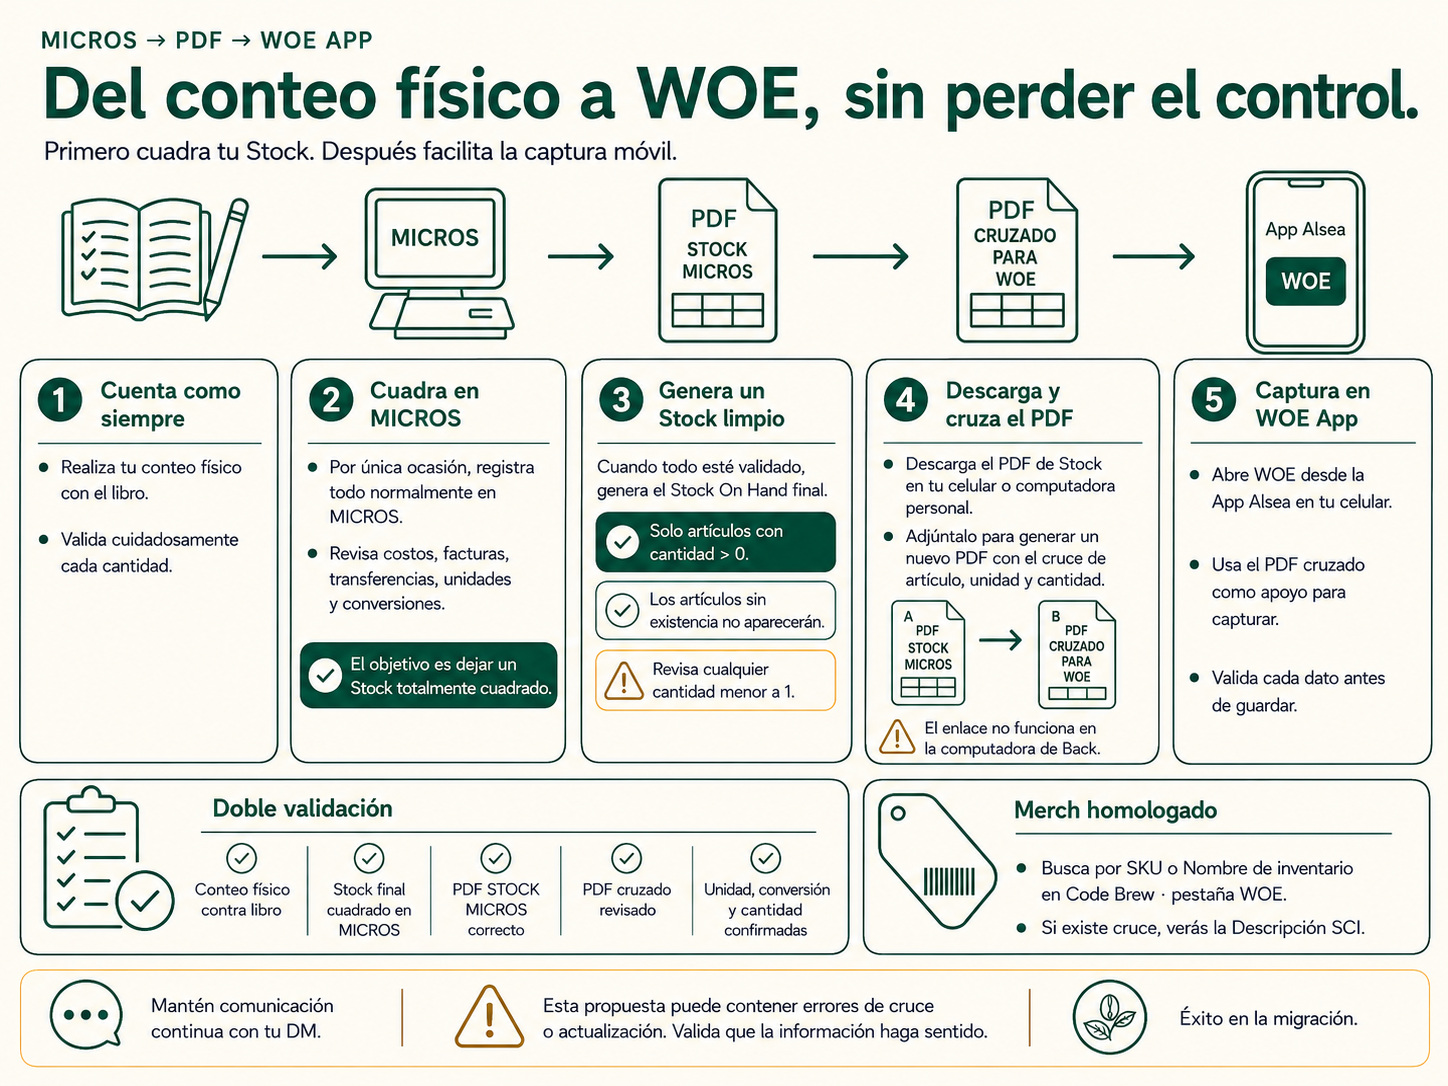
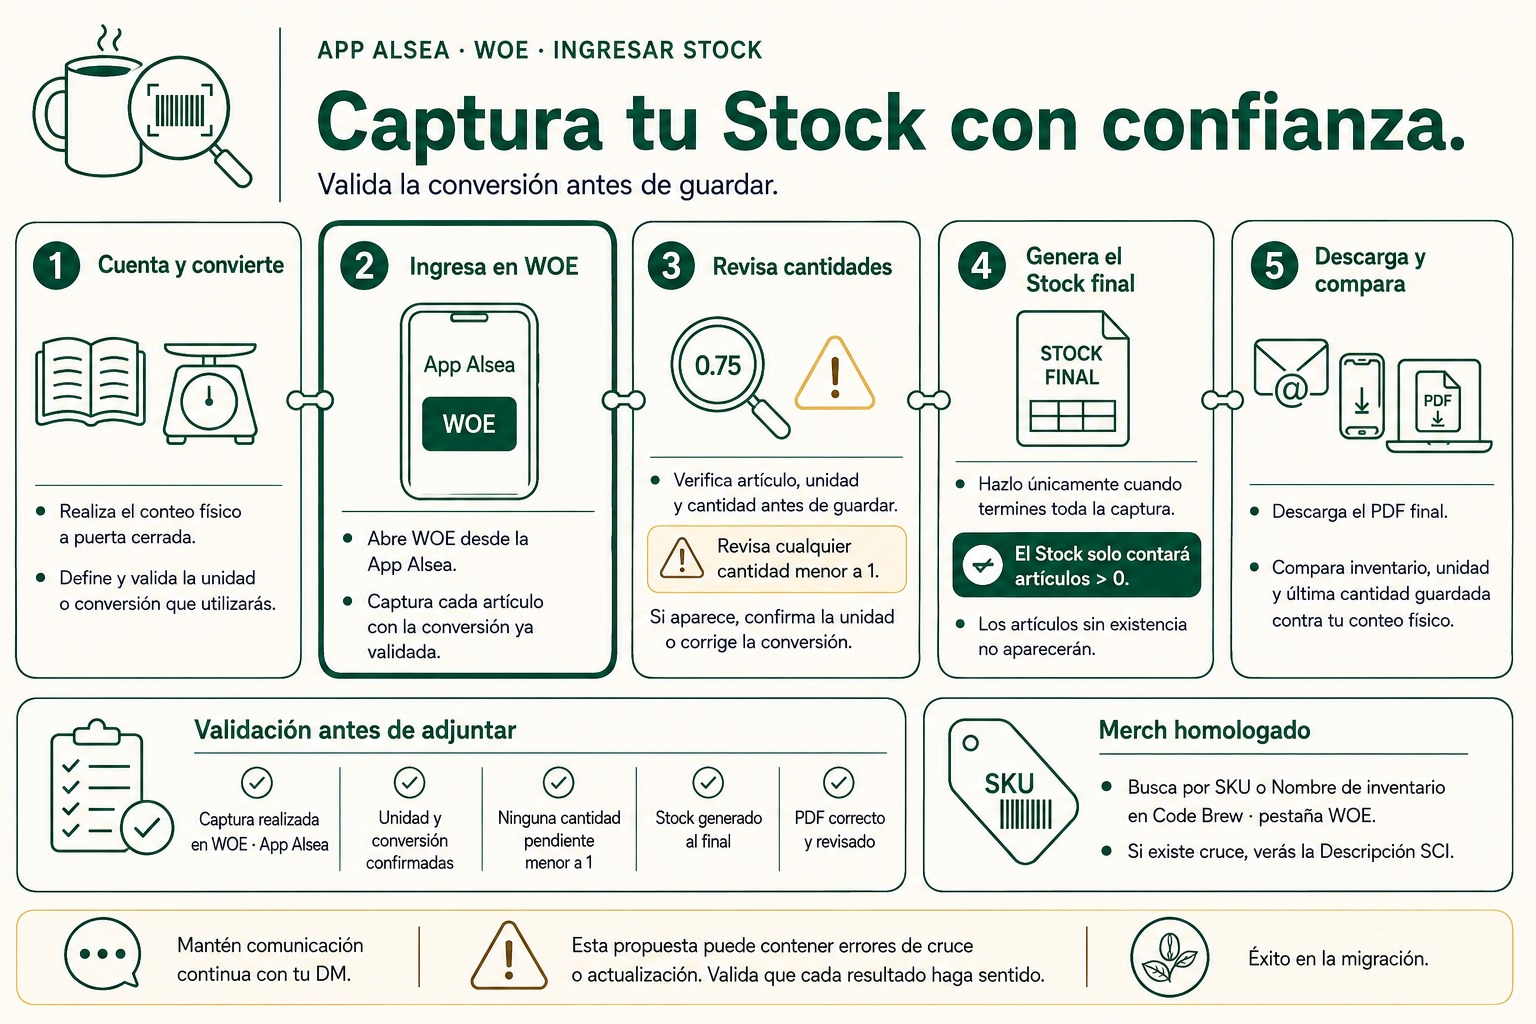
Add files via upload

Changed region(s): [[0.0, 0.0312, 0.9945, 1.0]]

diff --git a/styles.css b/styles.css
@@ -74,7 +74,6 @@ button:focus-visible,.file-action:focus-within,.tab:focus-visible,input:focus-vi
 .woe-kicker{display:block;text-transform:uppercase;letter-spacing:.12em;font-size:12px;font-weight:900;color:#cde8dc;margin-bottom:8px}
 .woe-hero h2{font-size:34px;line-height:1.05;margin:0 0 10px}.woe-hero p{max-width:760px;margin:0;color:#edf8f3;font-size:17px;line-height:1.45}
 .woe-counter{min-width:140px;text-align:center;padding:18px;border:1px solid rgba(255,255,255,.24);background:rgba(255,255,255,.10);border-radius:20px}.woe-counter strong{display:block;font-size:34px}.woe-counter span{display:block;font-size:13px;color:#d9eee5}
-.woe-hero-tools{display:grid;gap:9px;min-width:170px}.woe-guide-open{min-height:38px;padding:9px 12px;border:1px solid rgba(255,255,255,.35);border-radius:13px;background:rgba(255,255,255,.12);font-size:12px}.woe-guide-open:hover{background:#fff;color:var(--green)}
 .woe-mini-guide{display:grid;grid-template-columns:repeat(3,1fr);gap:10px;margin:0 0 18px}.woe-mini-guide div{display:flex;align-items:center;gap:9px;background:#f6f1e8;border-radius:14px;padding:10px 12px}.woe-mini-guide b{display:grid;place-items:center;min-width:28px;height:28px;border-radius:50%;background:var(--green);color:#fff}.woe-mini-guide span{font-size:13px;font-weight:800;color:#405149;line-height:1.25}
 .woe-search-row{display:grid;grid-template-columns:minmax(260px,1fr) auto;gap:12px;align-items:start}.woe-search-box{position:relative;min-width:0}
 .woe-suggestions{position:absolute;z-index:20;top:calc(100% + 7px);left:0;right:0;max-height:360px;overflow:auto;background:#fff;border:1px solid var(--line);border-radius:16px;box-shadow:0 18px 40px rgba(7,63,47,.18);padding:6px}.woe-suggestion{display:grid;grid-template-columns:78px 1fr auto;gap:10px;width:100%;align-items:center;text-align:left;background:#fff;color:var(--dark);border-radius:12px;padding:11px 12px;font-size:14px;min-height:48px}.woe-suggestion:hover,.woe-suggestion:focus-visible{background:#eef7f2}.woe-suggestion b{font-size:17px;color:var(--green)}.woe-suggestion span{overflow:hidden;text-overflow:ellipsis;white-space:nowrap}.woe-suggestion small{font-size:12px;white-space:nowrap}.woe-no-suggestion{padding:16px;color:var(--danger);font-weight:800}
@@ -118,7 +117,9 @@ button:focus-visible,.file-action:focus-within,.tab:focus-visible,input:focus-vi
 @media(max-width:820px){.stock-dialog-grid{grid-template-columns:1fr}.stock-dialog-visual{padding:14px}.stock-dialog-visual img{max-height:38vh}.stock-dialog-content{padding:24px 18px 22px}.stock-dialog-content h2{font-size:27px}}
 @media(max-width:520px){.stock-dialog{width:calc(100% - 12px);max-height:96vh}.stock-dialog-card{max-height:96vh;border-radius:20px}.stock-confirm-summary{grid-template-columns:1fr}.stock-dialog-actions{display:grid;grid-template-columns:1fr}.stock-dialog-visual img{max-height:31vh}.stock-dialog-close{top:8px;right:8px}}
 
-/* Bienvenida WOE · guía emergente una vez por sesión, sin recortar la imagen */
-.woe-guide-dialog{width:min(1180px,calc(100% - 24px))}.woe-guide-card{background:#fffaf2}.woe-guide-visual{display:grid;place-items:center;margin:0;padding:18px 18px 10px;background:linear-gradient(145deg,#f3eadb,#fffdf8)}.woe-guide-visual img{display:block;width:100%;height:auto;max-height:68vh;object-fit:contain;object-position:center;border-radius:16px;box-shadow:0 12px 34px rgba(54,38,16,.12)}
-.woe-guide-footer{display:flex;align-items:center;justify-content:space-between;gap:26px;padding:18px 24px 22px}.woe-guide-footer h2{margin:2px 0 4px;color:var(--dark);font-size:25px}.woe-guide-footer p{max-width:780px;margin:0;color:var(--muted);line-height:1.4}.woe-guide-footer button{flex:0 0 auto;font-size:15px;padding:12px 18px}
-@media(max-width:760px){.woe-hero{display:block}.woe-hero-tools{width:100%;margin-top:14px}.woe-guide-footer{display:grid;gap:14px;padding:16px}.woe-guide-footer button{width:100%}.woe-guide-visual{padding:10px}.woe-guide-visual img{max-height:58vh}.woe-guide-footer h2{font-size:22px}}
+/* Guía previa al archivo · aparece sólo cuando el usuario solicita adjuntar */
+.visually-hidden{position:absolute!important;width:1px!important;height:1px!important;padding:0!important;margin:-1px!important;overflow:hidden!important;clip:rect(0,0,0,0)!important;white-space:nowrap!important;border:0!important}
+.stock-upload-guide-dialog{width:min(1180px,calc(100% - 24px))}.stock-upload-guide-card{background:#fffaf2}.stock-upload-guide-visual{display:grid;place-items:center;margin:0;padding:18px 18px 10px;background:linear-gradient(145deg,#f3eadb,#fffdf8)}.stock-upload-guide-visual img{display:block;width:100%;height:auto;max-height:66vh;object-fit:contain;object-position:center;border-radius:16px;box-shadow:0 12px 34px rgba(54,38,16,.12)}
+.stock-upload-guide-footer{display:flex;align-items:center;justify-content:space-between;gap:26px;padding:18px 24px 22px}.stock-upload-guide-footer h2{margin:2px 0 4px;color:var(--dark);font-size:25px}.stock-upload-guide-footer p{max-width:700px;margin:0;color:var(--muted);line-height:1.4}.stock-upload-guide-actions{display:flex;gap:9px;flex:0 0 auto}.stock-upload-guide-actions button{font-size:14px;padding:12px 16px}
+@media(max-width:760px){.woe-hero{display:block}.stock-upload-guide-footer{display:grid;gap:14px;padding:16px}.stock-upload-guide-actions{display:grid;grid-template-columns:1fr 1fr}.stock-upload-guide-visual{padding:10px}.stock-upload-guide-visual img{max-height:58vh}.stock-upload-guide-footer h2{font-size:22px}}
+@media(max-width:460px){.stock-upload-guide-actions{grid-template-columns:1fr}.stock-upload-guide-actions button{width:100%}}

diff --git a/index.html b/index.html
@@ -145,28 +145,8 @@
           <h2>Crea tu listado WOE</h2>
           <p>Busca, agrega y valida varios artículos en una sola vista. Exporta únicamente lo necesario en PDF carta vertical.</p>
         </div>
-        <div class="woe-hero-tools">
-          <div class="woe-counter"><strong id="woeTotal">0</strong><span>artículos auditados</span></div>
-          <button id="woeGuideOpen" type="button" class="woe-guide-open">Ver guía de comparación</button>
-        </div>
+        <div class="woe-counter"><strong id="woeTotal">0</strong><span>artículos auditados</span></div>
       </section>
-
-      <dialog id="woeGuideDialog" class="stock-dialog woe-guide-dialog" aria-labelledby="woeGuideTitle" aria-describedby="woeGuideIntro">
-        <form method="dialog" class="stock-dialog-card woe-guide-card">
-          <button id="woeGuideClose" class="stock-dialog-close" value="cancel" aria-label="Cerrar guía">×</button>
-          <figure class="woe-guide-visual">
-            <img src="assets/stock_pdf_woe.jpeg" alt="Guía para capturar y comparar Stock on Hand con WOE" loading="lazy" decoding="async">
-          </figure>
-          <section class="woe-guide-footer">
-            <div>
-              <span class="woe-kicker stock-kicker">Antes de comparar</span>
-              <h2 id="woeGuideTitle">Valida tu Stock con confianza.</h2>
-              <p id="woeGuideIntro">Confirma tienda, fecha y hora; después compara artículo, unidad y cantidad antes de generar el PDF.</p>
-            </div>
-            <button id="woeGuideAccept" type="button">Entendido, comenzar</button>
-          </section>
-        </form>
-      </dialog>
 
       <section class="panel woe-search-panel">
         <div class="woe-mini-guide" aria-label="Ayuda rápida">
@@ -210,7 +190,8 @@
           <div><b>3</b><span>Revisa cruces y genera tu referencia operativa.</span></div>
         </div>
         <div class="stock-upload-row">
-          <label class="file-action stock-file">Adjuntar Stock on Hand PDF<input id="stockPdfInput" type="file" accept="application/pdf,.pdf"></label>
+          <button id="stockAttachGuide" type="button" class="stock-file">Adjuntar Stock on Hand PDF</button>
+          <input id="stockPdfInput" class="visually-hidden" type="file" accept="application/pdf,.pdf">
           <button id="stockExport" type="button" disabled>Confirma la lectura para exportar</button>
           <button id="stockClear" type="button" class="ghost" disabled>Limpiar reporte</button>
         </div>
@@ -219,6 +200,26 @@
         <div id="stockMeta" class="stock-meta" hidden></div>
         <div id="stockResults" class="stock-results"></div>
       </section>
+
+      <dialog id="stockUploadGuideDialog" class="stock-dialog stock-upload-guide-dialog" aria-labelledby="stockUploadGuideTitle" aria-describedby="stockUploadGuideIntro">
+        <form method="dialog" class="stock-dialog-card stock-upload-guide-card">
+          <button id="stockUploadGuideClose" class="stock-dialog-close" value="cancel" aria-label="Cerrar guía">×</button>
+          <figure class="stock-upload-guide-visual">
+            <img src="assets/stock_pdf_woe.jpeg" alt="Guía para capturar y comparar Stock on Hand con WOE" loading="lazy" decoding="async">
+          </figure>
+          <section class="stock-upload-guide-footer">
+            <div>
+              <span class="woe-kicker stock-kicker">Antes de adjuntar</span>
+              <h2 id="stockUploadGuideTitle">¿Confirmas que revisarás la información?</h2>
+              <p id="stockUploadGuideIntro">Utiliza el reporte más actual y valida tienda, fecha, hora, artículo, unidad y cantidad antes de exportar.</p>
+            </div>
+            <div class="stock-upload-guide-actions">
+              <button id="stockUploadGuideCancel" type="button" class="ghost">Cancelar</button>
+              <button id="stockUploadGuideAccept" type="button">Confirmar y elegir PDF</button>
+            </div>
+          </section>
+        </form>
+      </dialog>
 
       <dialog id="stockConfirmDialog" class="stock-dialog" aria-labelledby="stockConfirmTitle" aria-describedby="stockConfirmIntro">
         <form method="dialog" class="stock-dialog-card">

diff --git a/app.js b/app.js
@@ -643,20 +643,21 @@
     document.querySelectorAll('.tabpage').forEach(panel=>{const active=panel.id===target;panel.classList.toggle('active',active);panel.hidden=!active;});
     try{sessionStorage.setItem('codebrew-tab',target);}catch(error){}
     if(updateHistory&&location.hash!==`#${target}`)history.pushState({tab:target},'',`#${target}`);
-    if(target==='woe')requestAnimationFrame(()=>openWoeGuide());
   }
 
-  function closeWoeGuide(){
-    const dialog=$('woeGuideDialog');
+  function closeStockUploadGuide(){
+    const dialog=$('stockUploadGuideDialog');
     if(typeof dialog.close==='function'&&dialog.open)dialog.close();else dialog.classList.remove('open');
   }
 
-  function openWoeGuide(force=false){
-    let shown=false;try{shown=sessionStorage.getItem('codebrew-woe-guide')==='shown';}catch(error){}
-    if(shown&&!force)return;
-    const dialog=$('woeGuideDialog');
-    try{sessionStorage.setItem('codebrew-woe-guide','shown');}catch(error){}
+  function openStockUploadGuide(){
+    const dialog=$('stockUploadGuideDialog');
     if(typeof dialog.showModal==='function'){if(!dialog.open)dialog.showModal();}else dialog.classList.add('open');
+  }
+
+  function confirmStockUploadGuide(){
+    closeStockUploadGuide();
+    requestAnimationFrame(()=>$('stockPdfInput').click());
   }
 
   function renderAuditHealth(){
@@ -1099,10 +1100,11 @@
     $('woeAdd').addEventListener('click',()=>{addWoeQueries($('woeSearch').value);renderWoeResults();requestAnimationFrame(()=>$('woeStatus').scrollIntoView({behavior:'smooth',block:'nearest'}));});
     $('woeExport').addEventListener('click',generateWoePdf);
     $('woeClear').addEventListener('click',()=>{woeSelection.clear();renderWoeSelection();$('woeResults').innerHTML='';$('woeStatus').classList.remove('warning');$('woeStatus').textContent='Selección limpia. Escribe un dato para comenzar.';$('woeSearch').focus();});
-    $('woeGuideOpen').addEventListener('click',()=>openWoeGuide(true));
-    $('woeGuideAccept').addEventListener('click',()=>{closeWoeGuide();$('woeSearch').focus();});
-    $('woeGuideClose').addEventListener('click',closeWoeGuide);
-    $('woeGuideDialog').addEventListener('cancel',event=>{event.preventDefault();closeWoeGuide();});
+    $('stockAttachGuide').addEventListener('click',openStockUploadGuide);
+    $('stockUploadGuideAccept').addEventListener('click',confirmStockUploadGuide);
+    $('stockUploadGuideCancel').addEventListener('click',closeStockUploadGuide);
+    $('stockUploadGuideClose').addEventListener('click',closeStockUploadGuide);
+    $('stockUploadGuideDialog').addEventListener('cancel',event=>{event.preventDefault();closeStockUploadGuide();});
     $('stockPdfInput').addEventListener('change',event=>loadStockPdf(event.target.files?.[0]));
     $('stockExport').addEventListener('click',generateStockPdf);
     $('stockClear').addEventListener('click',clearStockReport);
@@ -1147,7 +1149,7 @@
       closeCamera('labelVideo','labelOcrStatus','labelStartCamera','labelScanBtn','labelStopCamera','label',false);
     });
     renderCart();
-    if('serviceWorker' in navigator) window.addEventListener('load', () => navigator.serviceWorker.register('sw.js?v=codebrew-v14-woe-guide'));
+    if('serviceWorker' in navigator) window.addEventListener('load', () => navigator.serviceWorker.register('sw.js?v=codebrew-v15-stock-upload-guide'));
   }
   document.readyState === 'loading' ? document.addEventListener('DOMContentLoaded', init) : init();
 })();

diff --git a/data/app-audit.js b/data/app-audit.js
@@ -1,1 +1,1 @@
[2 lines of base64/hex data omitted]

diff --git a/sw.js b/sw.js
@@ -1,4 +1,4 @@
-const CACHE_NAME = 'codebrew-merch-v14-woe-guide-2026-08-09';
+const CACHE_NAME = 'codebrew-merch-v15-stock-upload-guide-2026-08-09';
 const APP_SHELL = [
   './',
   './index.html',

diff --git a/scripts/audit_project.py b/scripts/audit_project.py
@@ -112,7 +112,7 @@ def audit(root: Path) -> dict:
         "WOE 4 columnas + Stock seguro de 6 columnas; ambos en carta vertical",
     ))
     duplicate_ids = sorted({value for value in parser.ids if parser.ids.count(value) > 1})
-    required_ids = {"consulta", "woe", "etiquetado", "woeSearch", "woeResults", "woeGuideDialog", "woeGuideOpen", "woeGuideAccept", "stockPdfInput", "stockExport", "stockResults", "stockConfirmDialog", "stockConfirmHeader", "stockConfirmRows", "stockConfirmAccept"}
+    required_ids = {"consulta", "woe", "etiquetado", "woeSearch", "woeResults", "stockAttachGuide", "stockUploadGuideDialog", "stockUploadGuideAccept", "stockPdfInput", "stockExport", "stockResults", "stockConfirmDialog", "stockConfirmHeader", "stockConfirmRows", "stockConfirmAccept"}
     redundant_controls = {"woeRun", "woeCopyList"}.intersection(parser.ids)
     checks.append(check(
         "Navegación e interfaz",
